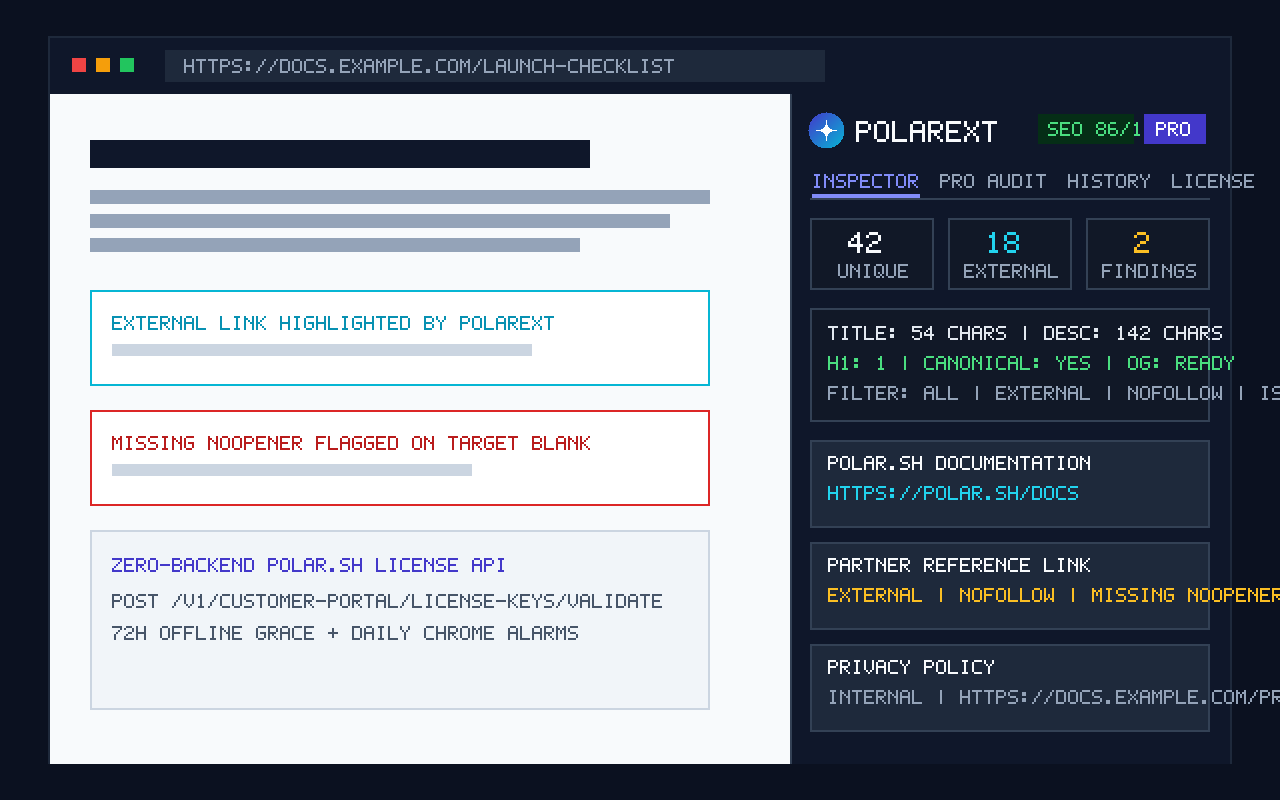
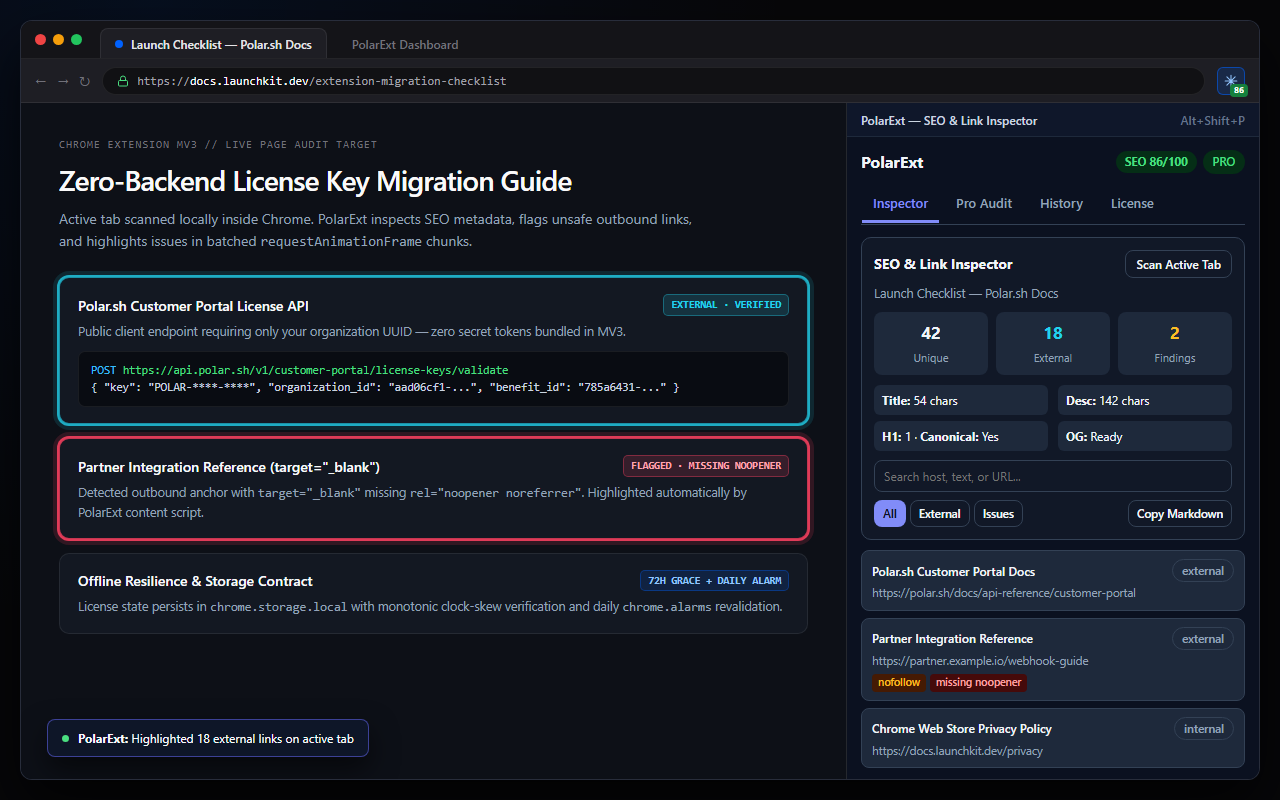
feat(assets): deploy Chrome-rendered 1280x800 Side Panel screenshots and Swiss 1200x630 OG card (?v=3)

diff --git a/index.html b/index.html
@@ -19,7 +19,7 @@
       property="og:description"
       content="Skip server plumbing after Lemon Squeezy's sunset. MV3 React 19 + Polar.sh public license API, 72h offline grace, daily trial quota, and Chromium + Firefox builds. $19 launch price."
     />
-    <meta property="og:image" content="https://jas845323.github.io/polarext/og-card.png?v=2" />
+    <meta property="og:image" content="https://jas845323.github.io/polarext/og-card.png?v=3" />
     <meta property="og:image:width" content="1200" />
     <meta property="og:image:height" content="630" />
 
@@ -29,7 +29,7 @@
       name="twitter:description"
       content="Zero backend, zero server bill. MV3 React 19 + Polar.sh license keys, 72h offline grace, Chromium + Firefox MV3 builds, and 29 automated tests. Try the live in-browser demo."
     />
-    <meta name="twitter:image" content="https://jas845323.github.io/polarext/og-card.png?v=2" />
+    <meta name="twitter:image" content="https://jas845323.github.io/polarext/og-card.png?v=3" />
 
     <script type="application/ld+json">
       {
@@ -42,7 +42,7 @@
             "operatingSystem": "Chrome, Edge, Brave, Firefox",
             "softwareVersion": "1.2.0",
             "url": "https://jas845323.github.io/polarext/",
-            "image": "https://jas845323.github.io/polarext/og-card.png?v=2",
+            "image": "https://jas845323.github.io/polarext/og-card.png?v=3",
             "description": "Zero-backend Manifest V3 Chromium and Firefox browser extension starter kit wired to Polar.sh Customer Portal license key APIs, 72-hour offline grace cache, UTC daily trial quota, and 29 automated Vitest tests.",
             "author": {
               "@type": "Person",
@@ -446,8 +446,8 @@
 
             <div class="surface-inspection">
               <div class="inspection-head">
-                <span class="eyebrow">AUTO-GENERATED STORE ARTIFACTS (PURE NODE.JS)</span>
-                <span class="mono-note">1280×800 PNG · 0 Headless Deps</span>
+                <span class="eyebrow">CHROME SIDE PANEL SURFACES (REAL EXTENSION UI)</span>
+                <span class="mono-note">1280×800 PNG · Chrome Rendered</span>
               </div>
               <div class="gallery-grid">
                 <figure class="gallery-card">
